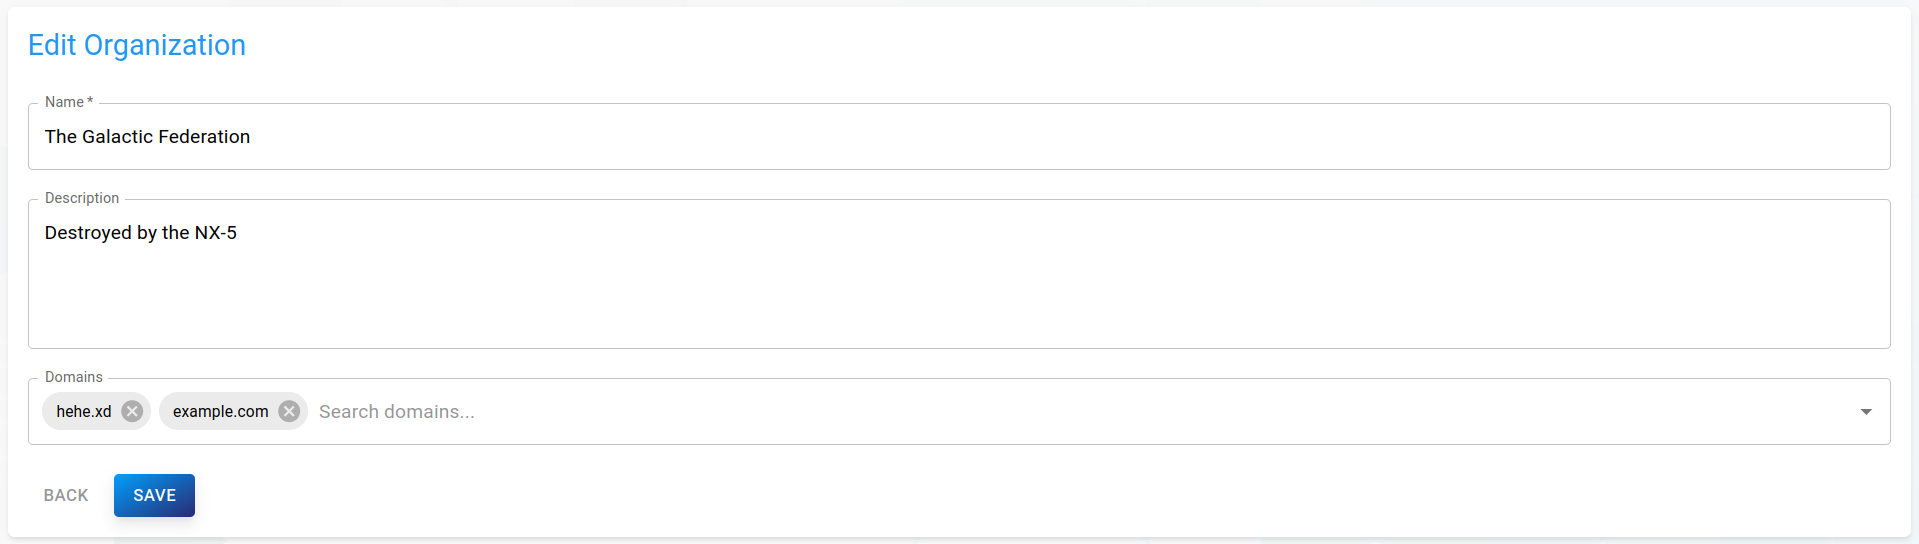
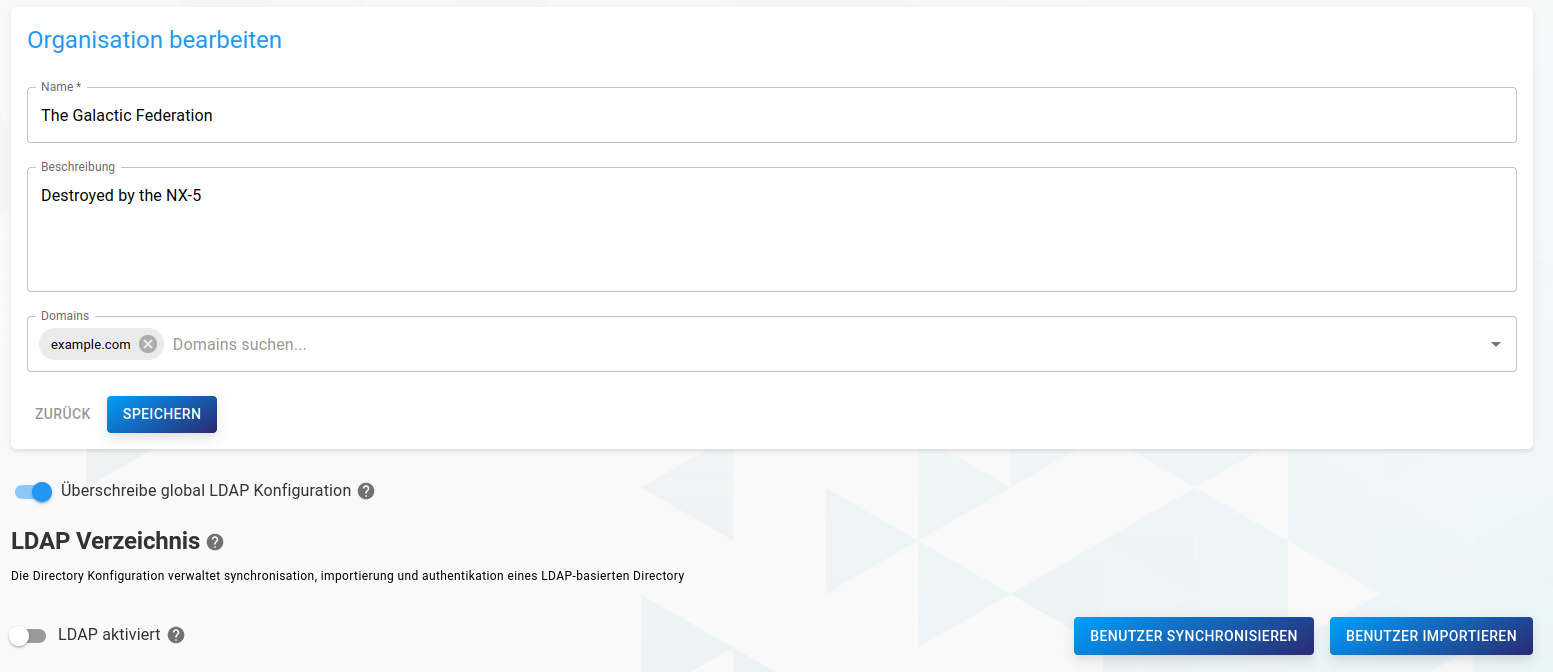
Add org ldap documentation

diff --git a/admin/administration.rst b/admin/administration.rst
@@ -714,8 +714,8 @@ the detailed view of an organization.
 .. image:: _static/img/edit_organization.png
    :alt: editing an organization
 
-Simply change attributes to your needs, then click `Save` on the bottom to save
-your changes.
+In this view, it is also possible to override the global LDAP configuration for domains in this organisation.
+To get more information about creating an LDAP config, see the `LDAP` section of this documentation.
 
 
 Deleting an oranization
@@ -789,7 +789,10 @@ LDAP
 
 It it possible to synchronise users from external user directories using LDAP.
 To configure LDAP, click on `LDAP` in the drawer, which will redirect you to
-the LDAP configuration form.
+the LDAP form to define a global LDAP configuration.
+This config can be overwritten for each individual organisation.
+To do so, navigate to `Organisations` and open the detailed view of an organisation.
+Flip the `Override global LDAP config` switch and set a config according to the following specification.
 
 .. important::
    Please note that configuration changes are not automatically applied to the
